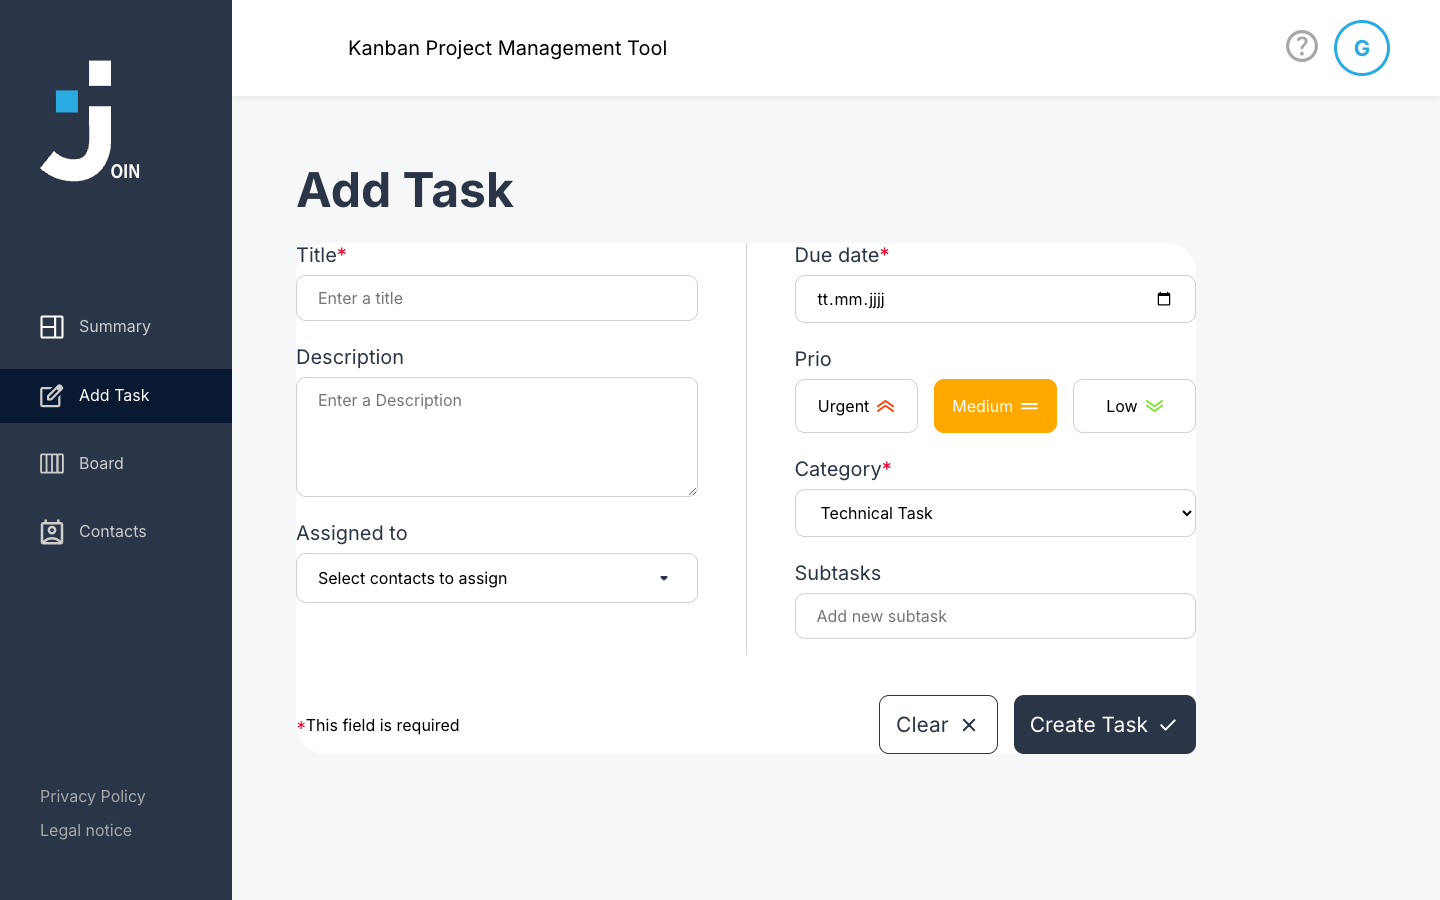
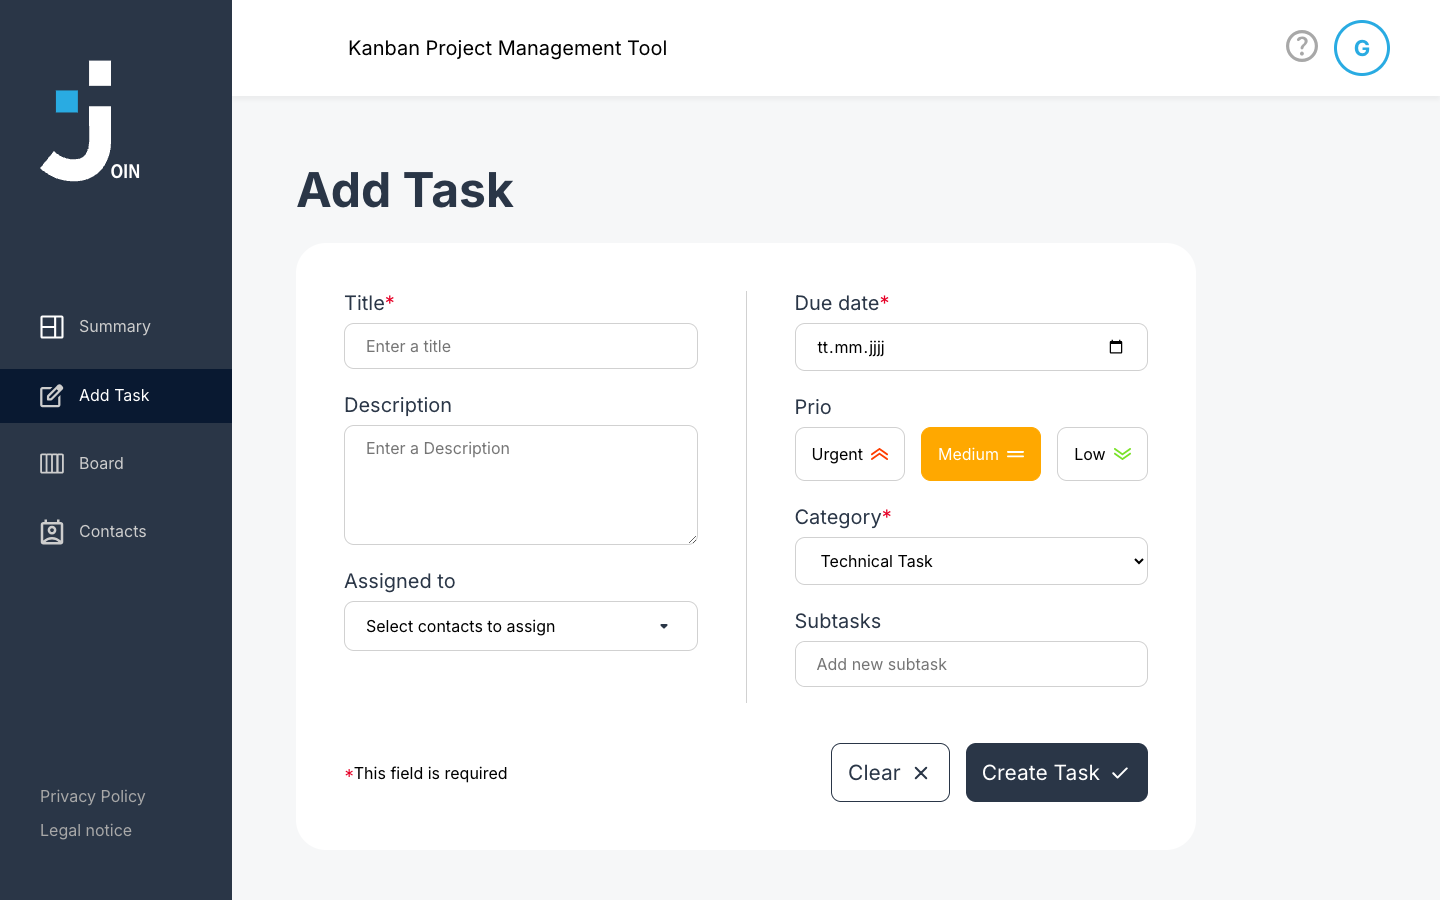
fix: desktop layout fixes for Add Task form padding, Board mobile menu visibility, and Contacts container alignment

diff --git a/src/components/TaskCard.css b/src/components/TaskCard.css
@@ -119,3 +119,72 @@
   height: 32px;
   object-fit: contain;
 }
+
+/* Mobile Move Menu (Only visible on mobile) */
+.mobile-move-wrapper {
+  position: relative;
+  display: none;
+}
+
+@media (max-width: 1374px) {
+  .mobile-move-wrapper {
+    display: block;
+  }
+}
+
+.mobile-move-btn {
+  background: transparent;
+  border: none;
+  cursor: pointer;
+  padding: 4px;
+  display: flex;
+  align-items: center;
+  justify-content: center;
+  border-radius: 50%;
+  width: 32px;
+  height: 32px;
+}
+
+.mobile-move-btn:hover {
+  background-color: rgba(0,0,0,0.05);
+}
+
+.mobile-move-btn img {
+  width: 24px;
+  height: 24px;
+}
+
+.mobile-move-menu {
+  position: absolute;
+  top: 100%;
+  right: 0;
+  background: white;
+  border-radius: 12px;
+  box-shadow: 0 4px 8px rgba(0,0,0,0.1);
+  display: flex;
+  flex-direction: column;
+  z-index: 1000;
+  overflow: hidden;
+  min-width: 140px;
+  border: 1px solid #d1d1d1;
+}
+
+.mobile-move-menu button {
+  background: none;
+  border: none;
+  padding: 12px 16px;
+  text-align: left;
+  font-size: 16px;
+  color: var(--color-primary);
+  cursor: pointer;
+}
+
+.mobile-move-menu button:hover {
+  background-color: var(--color-bg-hover);
+}
+
+.task-header-row {
+  display: flex;
+  justify-content: space-between;
+  align-items: center;
+}

diff --git a/src/pages/Contacts.tsx b/src/pages/Contacts.tsx
@@ -120,7 +120,7 @@ export default function Contacts() {
   const letters = Object.keys(groupedContacts).sort();
 
   return (
-    <main className="contacts-page">
+    <main className="content-container contacts-page">
       <div className={`contacts-list-container ${selectedContact ? 'hide-on-mobile' : ''}`}>
         <button className="add-contact-btn" onClick={openAddModal}>
           Add new contact <img src="/assets/imgs/person_add.svg" alt="Add" />

diff --git a/src/components/AddTaskForm.css b/src/components/AddTaskForm.css
@@ -4,6 +4,13 @@
   width: 100%;
   max-width: 900px;
   position: relative;
+  padding: 24px;
+}
+
+@media (min-width: 800px) {
+  .add-task-form-container {
+    padding: 48px;
+  }
 }
 
 .add-task-form {
